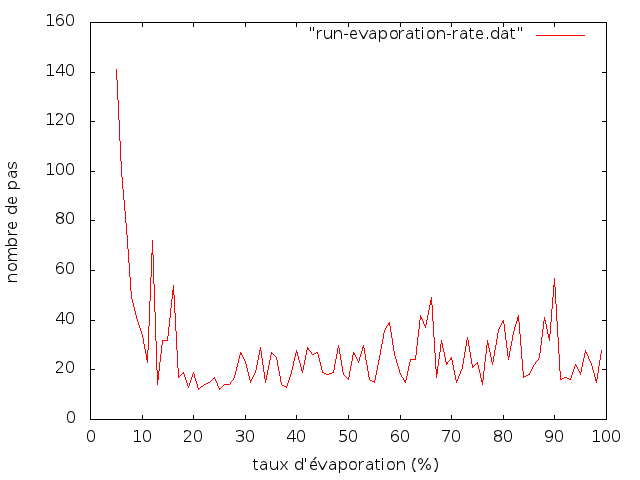
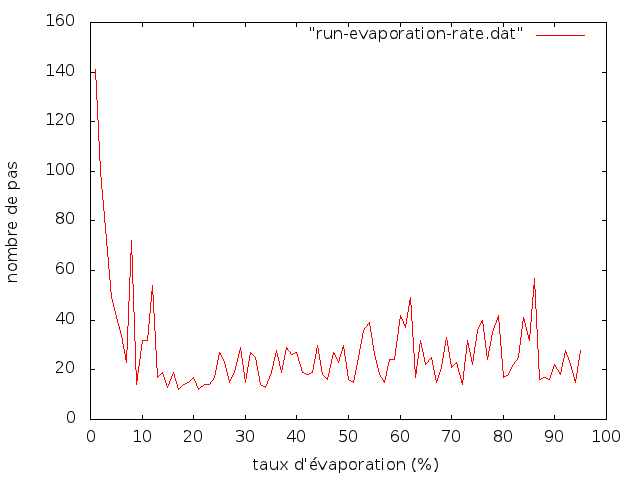
pheromones: python script generates plot and dat files directly

Changed region(s): [[0.3438, 0.6562, 0.9375, 0.8125], [0.1875, 0.5, 0.2812, 0.7812], [0.25, 0.7812, 0.3125, 0.8125]]

diff --git a/pheromones/prepare_plots.py b/pheromones/prepare_plots.py
@@ -1,0 +1,45 @@
+import csv
+import sys
+
+dictionnary = {}
+
+name = sys.argv[1]
+xlabel = sys.argv[2]
+ylabel = sys.argv[3]
+
+source = open(name + '.csv', 'rb');
+reader = csv.reader(source);
+
+# Jump the first line.
+reader.next()
+
+# Count.
+for row in reader:
+
+    value = row[1]
+    steps = row[3]
+
+    if value not in dictionnary:
+        dictionnary[int(value)] = [int(steps)]
+    else:
+        dictionnary[int(value)].append(int(steps))
+
+# Average.
+data = []
+for value, steps in sorted(dictionnary.items()):
+    data.append(str(sum(steps) / len(steps)))
+
+# Write data file.
+f = open(name + '.dat', 'w')
+for index, steps in enumerate(data):
+    f.write(str(index + 1) + ' ' + steps + "\n")
+f.close()
+
+# Write gnuplot file.
+f = open(name + '.plot', 'w')
+f.write('set terminal png\n')
+f.write('set output "' + name + '.png"\n')
+f.write('set xlabel "' + xlabel + '"\n')
+f.write('set ylabel "' + ylabel + '"\n')
+f.write('plot "' + name + '.dat" with lines\n')
+f.close()
